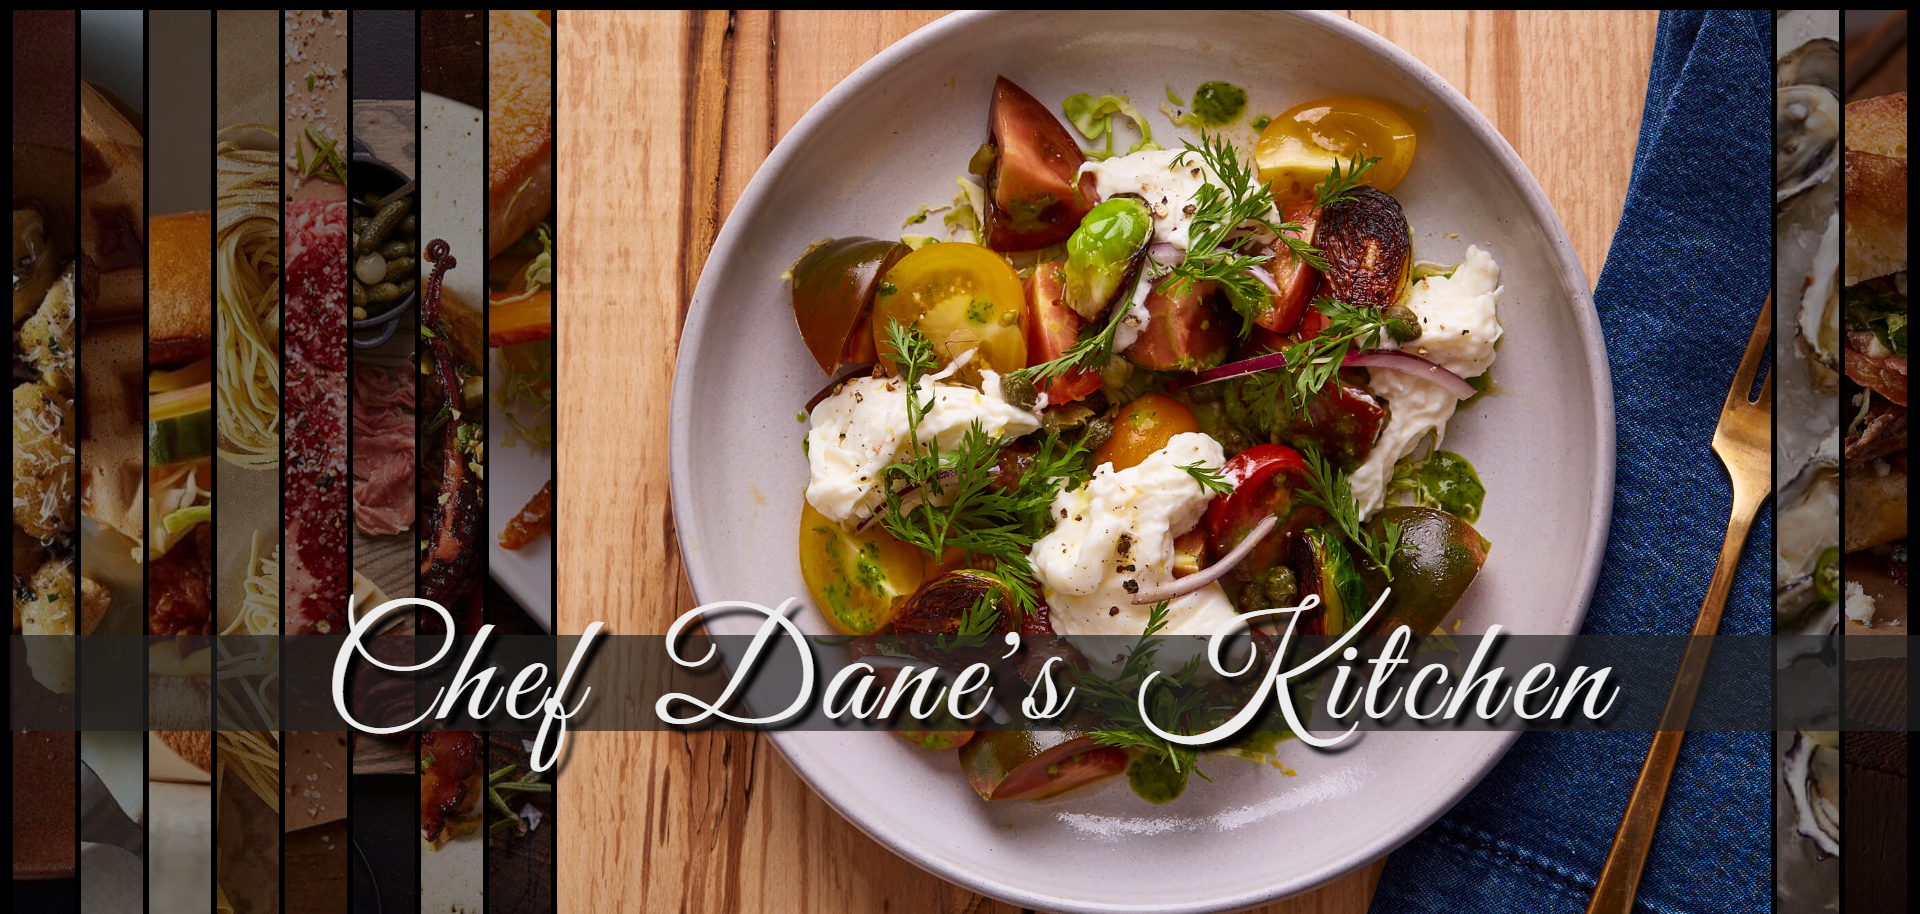
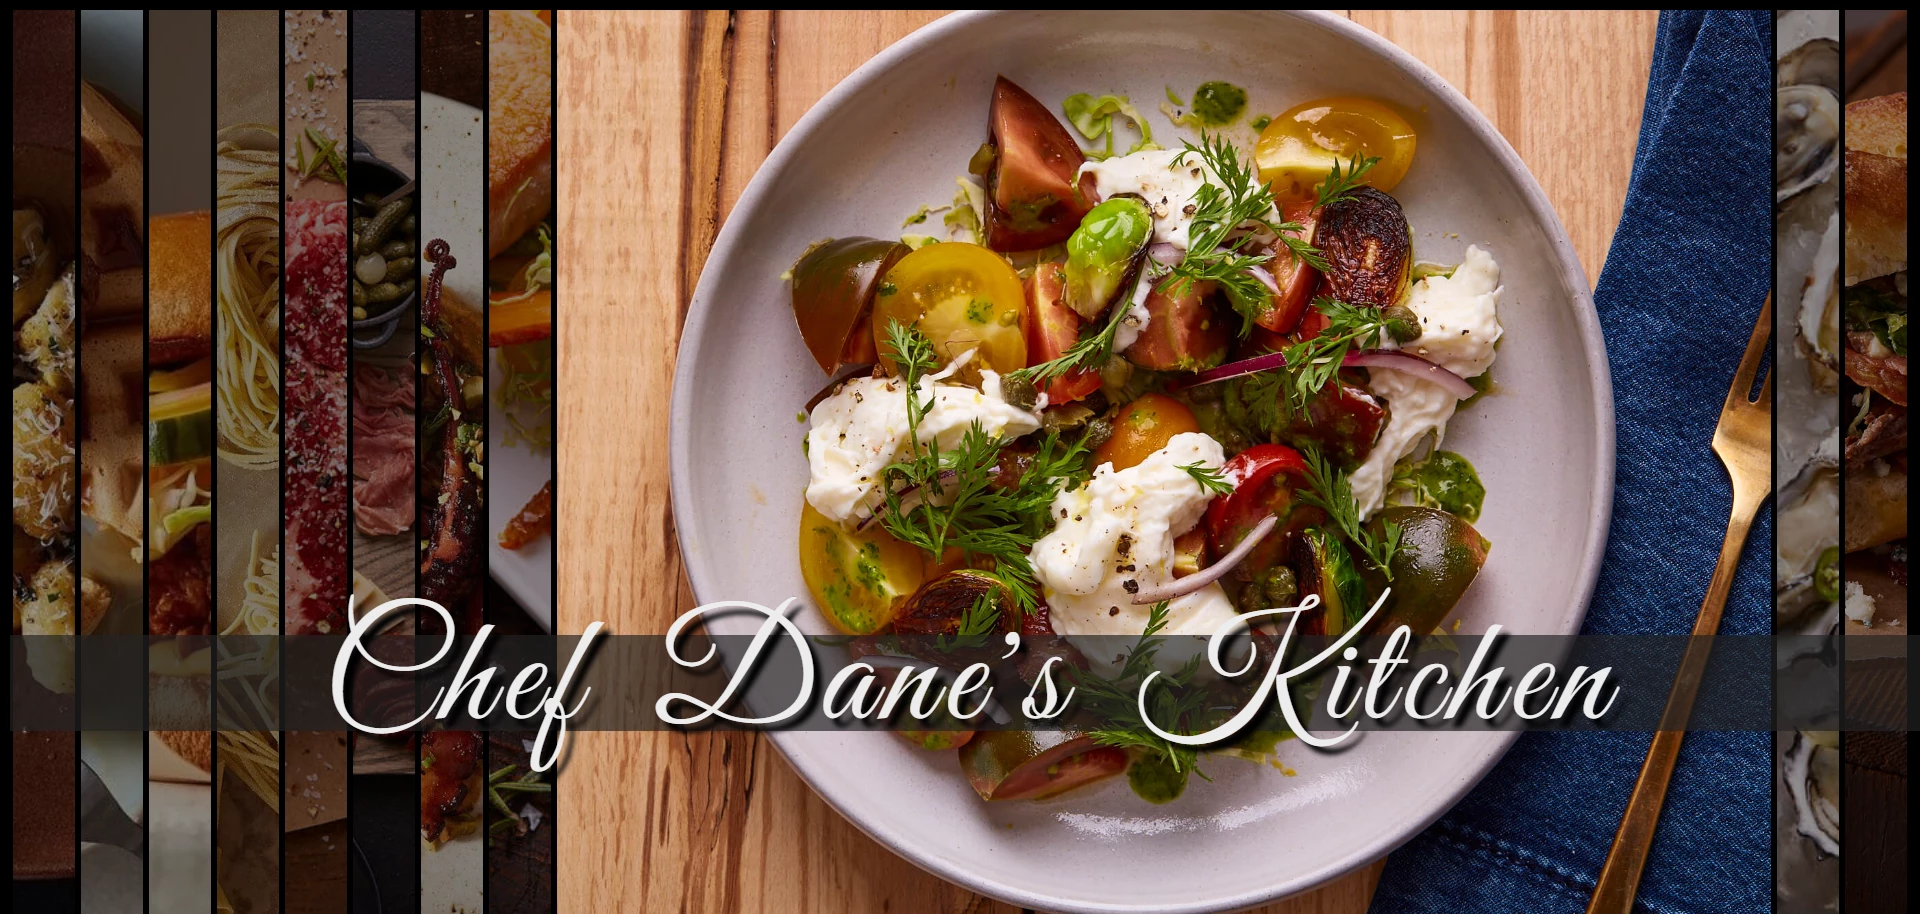
darkening thumbs

diff --git a/src/scss/App.scss b/src/scss/App.scss
@@ -14,36 +14,13 @@ $off-black: #222;
   font-display: swap;
 }
 
-/* @media only screen and (max-width: 767px) */
-/*.project6 .project-image { background-image: url('../images/thumbs/notes-react_100_dark_s.webp'); }
-.project5 .project-image { background-image: url('../images/thumbs/todo-list-react_100_dark_s.webp'); }
-.project4 .project-image { background-image: url('../images/thumbs/chat-app_100_dark_s.webp'); }
-.project3 .project-image { background-image: url('../images/thumbs/calculator_100_dark_s.webp'); }
-.project2 .project-image { background-image: url('../images/thumbs/flex-slideshow_100_dark_s.webp'); }
-.project1 .project-image { background-image: url('../images/thumbs/alarm-timer_100_dark_s.webp'); }*/
-.project6 .project-image { background-image: url('../images/thumbs/notes-react.webp'); }
-.project5 .project-image { background-image: url('../images/thumbs/todo-list-react.webp'); }
-.project4 .project-image { background-image: url('../images/thumbs/chat-app.webp'); }
-.project3 .project-image { background-image: url('../images/thumbs/vue-calculator.webp'); }
-.project2 .project-image { background-image: url('../images/thumbs/flex-slideshow.webp'); }
-.project1 .project-image { background-image: url('../images/thumbs/alarm-timer.webp'); }
-.headshot { background-image: url(../images/headshot_smaller.webp); }
-
-@media only screen and (min-width: 768px) {
-  /*.project6 .project-image { background-image: url('../images/thumbs/notes-react_100_dark_l.webp'); }
-  .project5 .project-image { background-image: url('../images/thumbs/todo-list-react_100_dark_l.webp'); }
-  .project4 .project-image { background-image: url('../images/thumbs/chat-app_100_dark_l.webp'); }
-  .project3 .project-image { background-image: url('../images/thumbs/calculator_100_dark_l.webp'); }
-  .project2 .project-image { background-image: url('../images/thumbs/flex-slideshow_100_dark_l.webp'); }
-  .project1 .project-image { background-image: url('../images/thumbs/alarm-timer_100_dark_l.webp'); }*/
-  .project6 .project-image { background-image: url('../images/thumbs/notes-react.webp'); }
-  .project5 .project-image { background-image: url('../images/thumbs/todo-list-react.webp'); }
-  .project4 .project-image { background-image: url('../images/thumbs/chat-app.webp'); }
-  .project3 .project-image { background-image: url('../images/thumbs/vue-calculator.webp'); }
-  .project2 .project-image { background-image: url('../images/thumbs/flex-slideshow.webp'); }
-  .project1 .project-image { background-image: url('../images/thumbs/alarm-timer.webp'); }
-  .headshot { background-image: url(../images/headshot_small.webp); }
-}
+.project6 .project-image { background-image: linear-gradient( rgba(0, 0, 0, 0.2), rgba(0, 0, 0, 0.2) ), url('../images/thumbs/notes-react.webp'); }
+.project5 .project-image { background-image: linear-gradient( rgba(0, 0, 0, 0.2), rgba(0, 0, 0, 0.2) ), url('../images/thumbs/todo-list-react.webp'); }
+.project4 .project-image { background-image: linear-gradient( rgba(0, 0, 0, 0.2), rgba(0, 0, 0, 0.2) ), url('../images/thumbs/chat-app.webp'); }
+.project3 .project-image { background-image: linear-gradient( rgba(0, 0, 0, 0.2), rgba(0, 0, 0, 0.2) ), url('../images/thumbs/vue-calculator.webp'); }
+.project2 .project-image { background-image: linear-gradient( rgba(0, 0, 0, 0.2), rgba(0, 0, 0, 0.2) ), url('../images/thumbs/flex-slideshow.webp'); }
+.project1 .project-image { background-image: linear-gradient( rgba(0, 0, 0, 0.2), rgba(0, 0, 0, 0.2) ), url('../images/thumbs/alarm-timer.webp'); }
+.headshot { background-image: url(../images/headshot_small.webp); }
 
 * {
   margin: 0;

diff --git a/src/css/App.css b/src/css/App.css
@@ -5,55 +5,26 @@
   font-style: normal;
   font-display: swap; }
 
-/* @media only screen and (max-width: 767px) */
-/*.project6 .project-image { background-image: url('../images/thumbs/notes-react_100_dark_s.webp'); }
-.project5 .project-image { background-image: url('../images/thumbs/todo-list-react_100_dark_s.webp'); }
-.project4 .project-image { background-image: url('../images/thumbs/chat-app_100_dark_s.webp'); }
-.project3 .project-image { background-image: url('../images/thumbs/calculator_100_dark_s.webp'); }
-.project2 .project-image { background-image: url('../images/thumbs/flex-slideshow_100_dark_s.webp'); }
-.project1 .project-image { background-image: url('../images/thumbs/alarm-timer_100_dark_s.webp'); }*/
 .project6 .project-image {
-  background-image: url("../images/thumbs/notes-react.webp"); }
+  background-image: linear-gradient(rgba(0, 0, 0, 0.2), rgba(0, 0, 0, 0.2)), url("../images/thumbs/notes-react.webp"); }
 
 .project5 .project-image {
-  background-image: url("../images/thumbs/todo-list-react.webp"); }
+  background-image: linear-gradient(rgba(0, 0, 0, 0.2), rgba(0, 0, 0, 0.2)), url("../images/thumbs/todo-list-react.webp"); }
 
 .project4 .project-image {
-  background-image: url("../images/thumbs/chat-app.webp"); }
+  background-image: linear-gradient(rgba(0, 0, 0, 0.2), rgba(0, 0, 0, 0.2)), url("../images/thumbs/chat-app.webp"); }
 
 .project3 .project-image {
-  background-image: url("../images/thumbs/vue-calculator.webp"); }
+  background-image: linear-gradient(rgba(0, 0, 0, 0.2), rgba(0, 0, 0, 0.2)), url("../images/thumbs/vue-calculator.webp"); }
 
 .project2 .project-image {
-  background-image: url("../images/thumbs/flex-slideshow.webp"); }
+  background-image: linear-gradient(rgba(0, 0, 0, 0.2), rgba(0, 0, 0, 0.2)), url("../images/thumbs/flex-slideshow.webp"); }
 
 .project1 .project-image {
-  background-image: url("../images/thumbs/alarm-timer.webp"); }
+  background-image: linear-gradient(rgba(0, 0, 0, 0.2), rgba(0, 0, 0, 0.2)), url("../images/thumbs/alarm-timer.webp"); }
 
 .headshot {
-  background-image: url(../images/headshot_smaller.webp); }
-
-@media only screen and (min-width: 768px) {
-  /*.project6 .project-image { background-image: url('../images/thumbs/notes-react_100_dark_l.webp'); }
-  .project5 .project-image { background-image: url('../images/thumbs/todo-list-react_100_dark_l.webp'); }
-  .project4 .project-image { background-image: url('../images/thumbs/chat-app_100_dark_l.webp'); }
-  .project3 .project-image { background-image: url('../images/thumbs/calculator_100_dark_l.webp'); }
-  .project2 .project-image { background-image: url('../images/thumbs/flex-slideshow_100_dark_l.webp'); }
-  .project1 .project-image { background-image: url('../images/thumbs/alarm-timer_100_dark_l.webp'); }*/
-  .project6 .project-image {
-    background-image: url("../images/thumbs/notes-react.webp"); }
-  .project5 .project-image {
-    background-image: url("../images/thumbs/todo-list-react.webp"); }
-  .project4 .project-image {
-    background-image: url("../images/thumbs/chat-app.webp"); }
-  .project3 .project-image {
-    background-image: url("../images/thumbs/vue-calculator.webp"); }
-  .project2 .project-image {
-    background-image: url("../images/thumbs/flex-slideshow.webp"); }
-  .project1 .project-image {
-    background-image: url("../images/thumbs/alarm-timer.webp"); }
-  .headshot {
-    background-image: url(../images/headshot_small.webp); } }
+  background-image: url(../images/headshot_small.webp); }
 
 * {
   margin: 0;

diff --git a/src/components/MultipleProject.js b/src/components/MultipleProject.js
@@ -16,15 +16,15 @@ export default function MultipleProject({ number, type1, type2, title, appPrevie
             </div>
             <div className='project-details-links'>
               <div>
-                <a href={appPreview} target='_blank' aria-label='Preview a live demo'>
+                <a href={appPreview} target='_blank' rel="noreferrer" aria-label='Preview a live demo'>
                   <h6>Preview</h6>
                 </a>
-                <a href={appGithub} target='_blank' aria-label='View the source code'>
+                <a href={appGithub} target='_blank' rel="noreferrer" aria-label='View the source code'>
                   <h6>Github</h6>
                 </a>
               </div>
               <div>
-                <a href={apiGithub} target='_blank' aria-label='View the source code'>
+                <a href={apiGithub} target='_blank' rel="noreferrer" aria-label='View the source code'>
                   <h6>Github</h6>
                 </a>
               </div>

diff --git a/src/components/SingleProject.js b/src/components/SingleProject.js
@@ -13,10 +13,10 @@ export default function SingleProject({ number, type, title, preview, github, sh
               <h6>App:</h6>
             </div>
             <div>
-              <a href={preview} target='_blank' aria-label='Preview a live demo'>
+              <a href={preview} target='_blank' rel="noreferrer" aria-label='Preview a live demo'>
                 <h6>Preview</h6>
               </a>
-              <a href={github} target='_blank' aria-label='View the source code'>
+              <a href={github} target='_blank' rel="noreferrer" aria-label='View the source code'>
                 <h6>Github</h6>
               </a>
             </div>

diff --git a/src/components/Welcome.js b/src/components/Welcome.js
@@ -11,7 +11,7 @@ export default function Welcome() {
         <br />
         currently&nbsp;working&nbsp;at&nbsp;
         <strong>
-          <a href='https://ezadtv.com/' target='_blank' aria-label='Go to: ezadtv.com'>EZ-AD TV</a>
+          <a href='https://ezadtv.com/' target='_blank' rel="noreferrer" aria-label='Go to: ezadtv.com'>EZ-AD TV</a>
         </strong>
       </h6>
     </div>

diff --git a/src/components/ContactIcon.js b/src/components/ContactIcon.js
@@ -2,7 +2,7 @@ import React from 'react';
 
 export default function ContactIcon({ type, link, desc }) {
   return (
-    <a href={link} name={desc} aria-label={desc} target={type !== 'email' ? '_blank' : '_self'}>
+    <a href={link} name={desc} aria-label={desc} target={type !== 'email' ? '_blank' : '_self'} rel="noreferrer">
       <div className={'icon social-' + type} />
     </a>
   );
